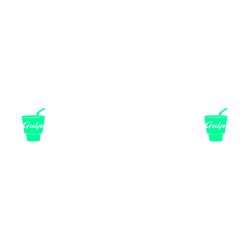
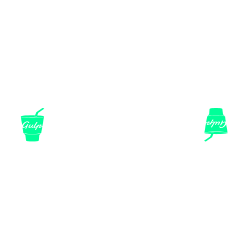
edit projects image

Changed region(s): [[0.812, 0.42, 0.924, 0.588], [0.084, 0.42, 0.196, 0.588]]

diff --git a/pages/index.tsx b/pages/index.tsx
@@ -57,7 +57,7 @@ export default function Home() {
         </div>
       </div>
       <Image
-        src="/projects_3.png"
+        src="/projects.png"
         width={200}
         height={200}
         alt=""
